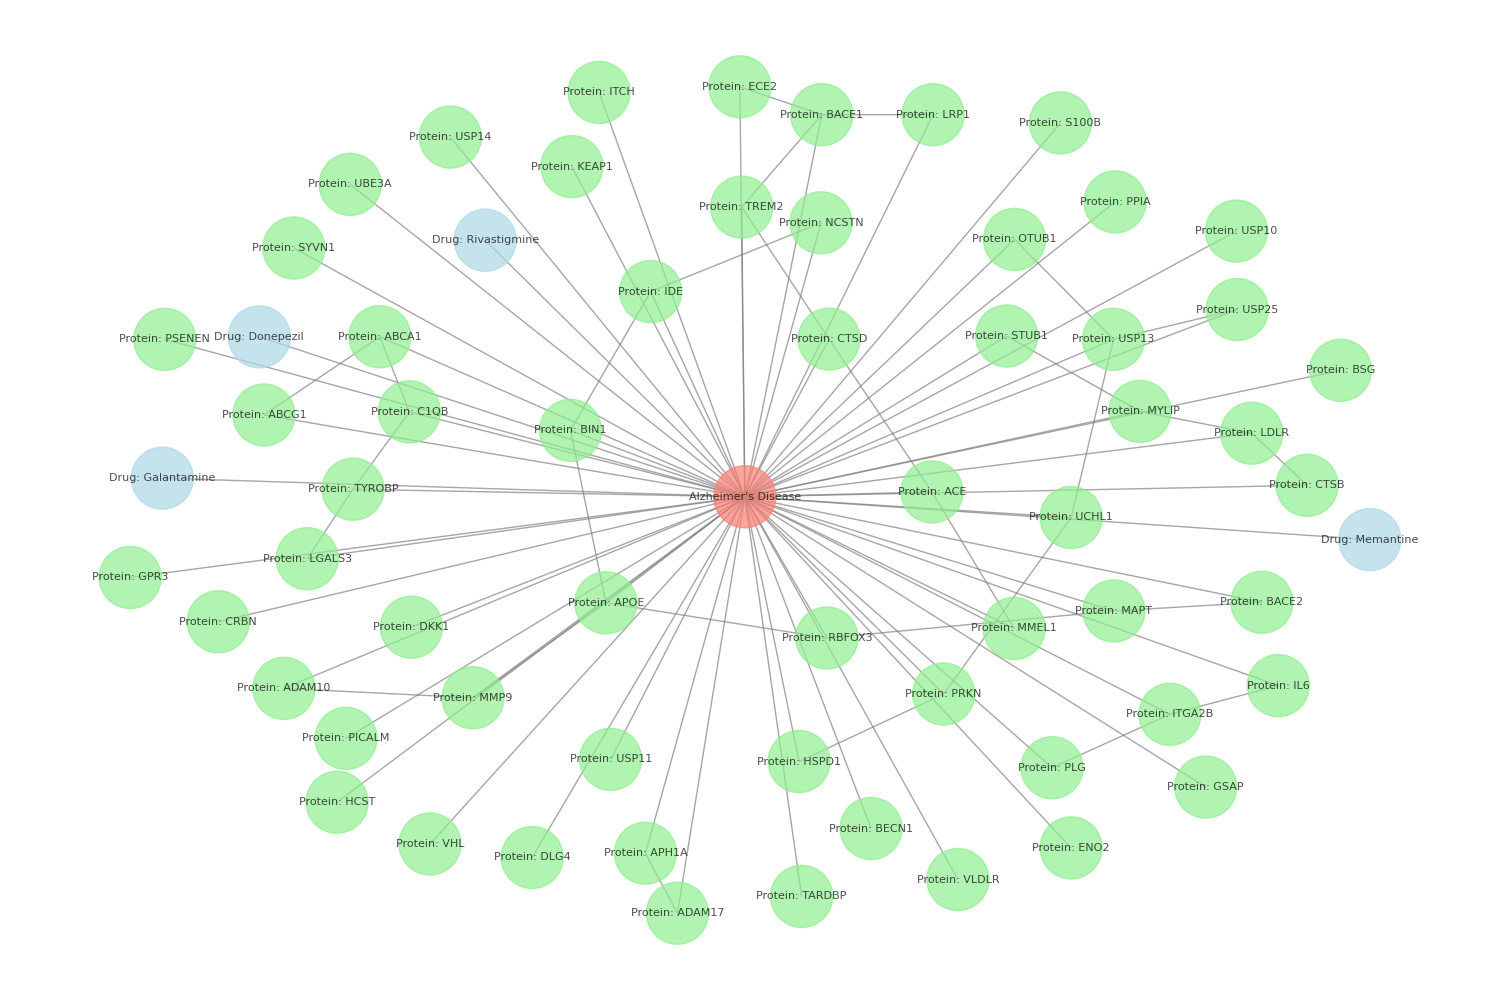
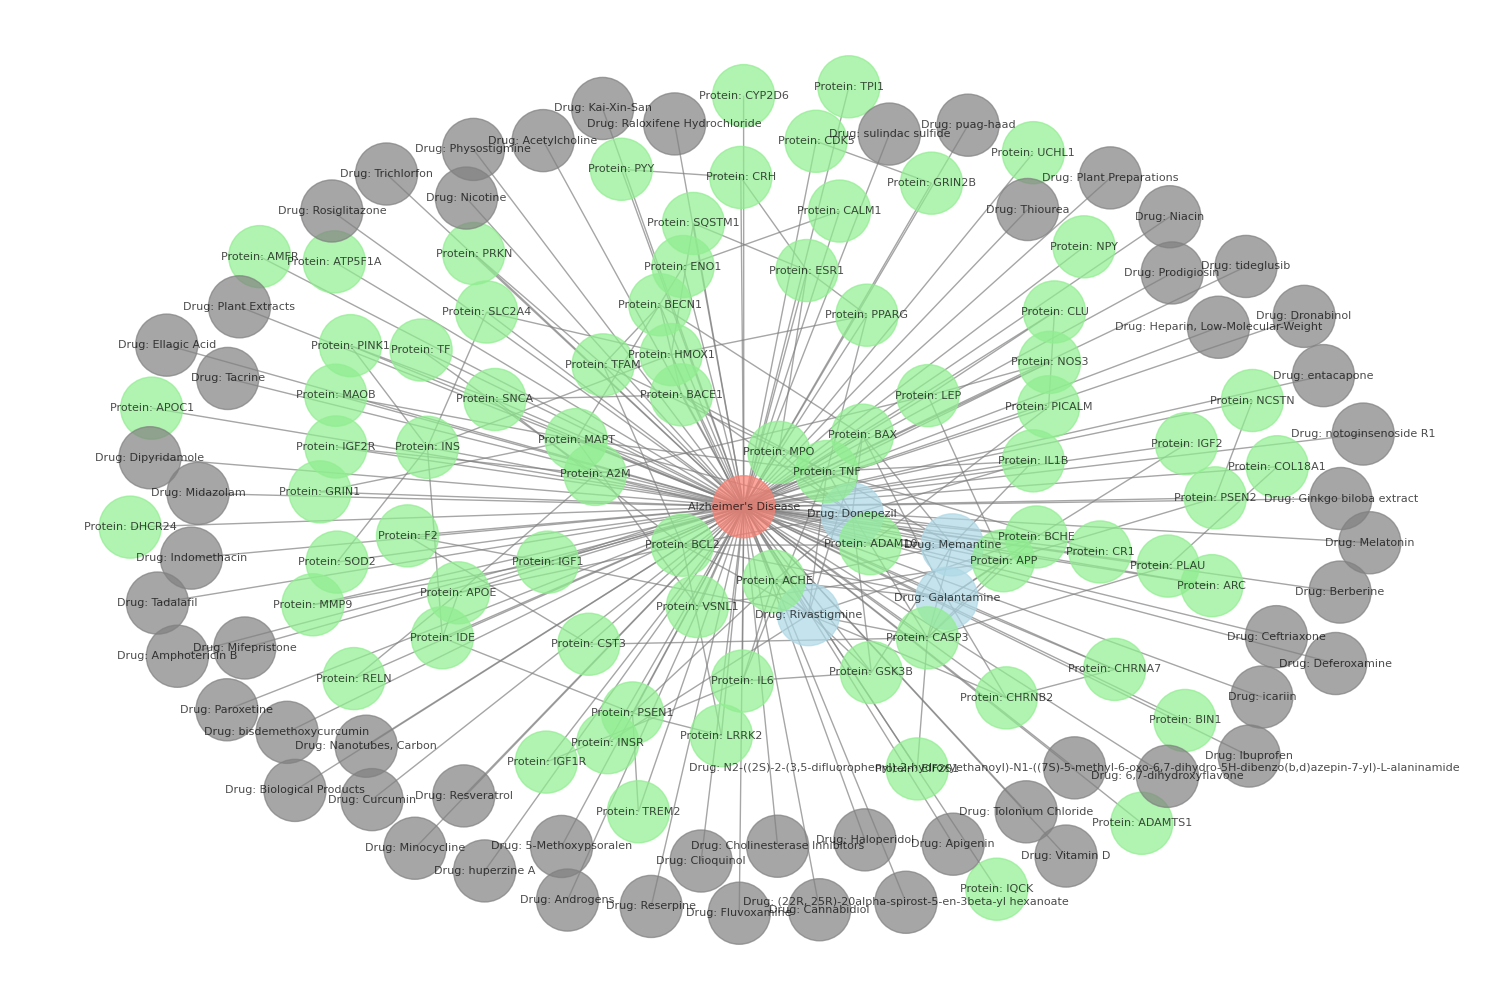
modified:   02_Code/08_visualize_graph.py modified:   network_visualization.png

diff --git a/02_Code/08_visualize_graph.py b/02_Code/08_visualize_graph.py
@@ -76,7 +76,7 @@ def visualize_graph():
     plt.figure(figsize=(15, 10))
     pos = nx.spring_layout(G, k=0.15, iterations=20)
 
-    node_colors = [G.nodes[n]['color'] for n in G.nodes]
+    node_colors = [G.nodes[n]['color'] if 'color' in G.nodes[n] else 'gray' for n in G.nodes]
 
     nx.draw(G, pos, with_labels=True, node_color=node_colors, node_size=2000, font_size=8, edge_color='gray', alpha=0.7)
 
